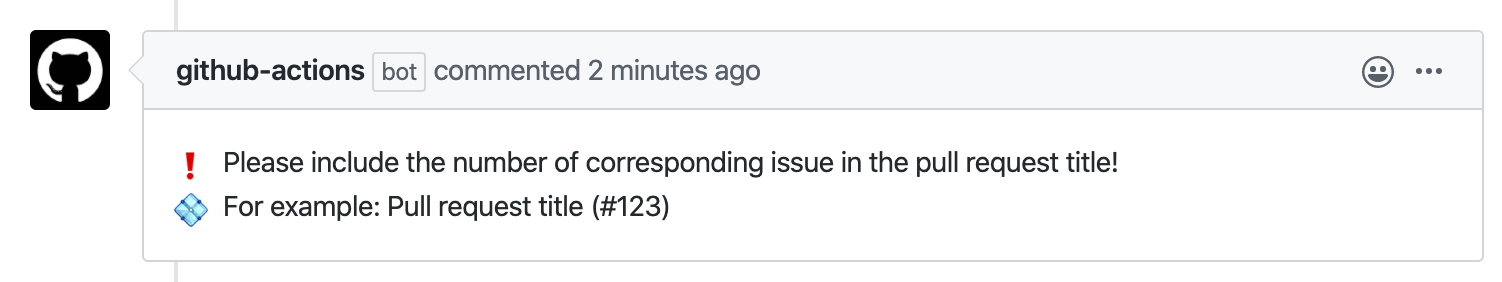
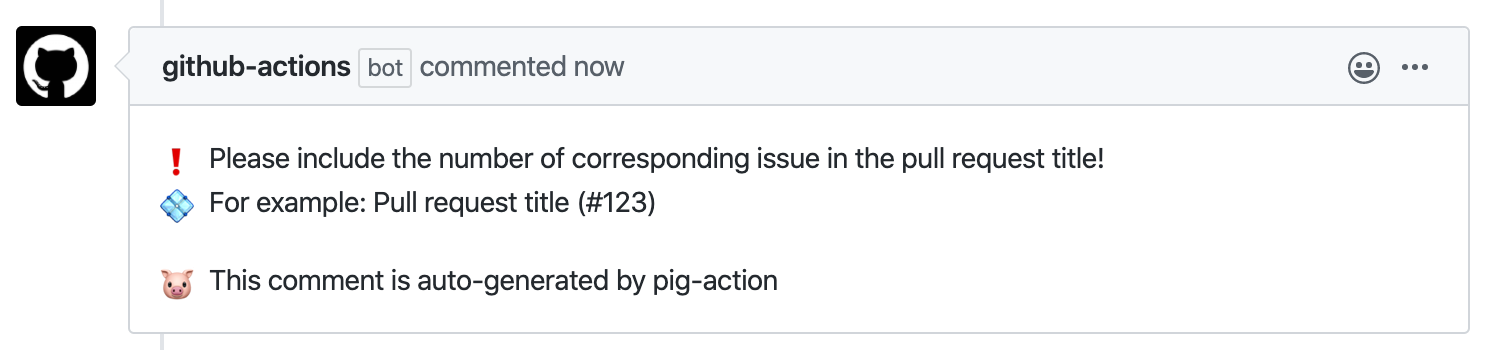
Modify title check comments

diff --git a/dist/index.js b/dist/index.js
@@ -565,7 +565,7 @@ async function run() {
             issue_number: context.issue.number,
             owner: context.repo.owner,
             repo: context.repo.repo,
-            body: "❗ Please include the number of corresponding issue in the pull request title!\n 💠 For example: Pull request title (#123)\n"
+            body: "❗ Please include the number of corresponding issue in the pull request title!\n 💠 For example: Pull request title (#123)\n\n\n 🐷 This comment is auto-generated by pig-action\n"
           })
           return;
         }

diff --git a/index.js b/index.js
@@ -67,7 +67,7 @@ async function run() {
             issue_number: context.issue.number,
             owner: context.repo.owner,
             repo: context.repo.repo,
-            body: "❗ Please include the number of corresponding issue in the pull request title!\n 💠 For example: Pull request title (#123)\n"
+            body: "❗ Please include the number of corresponding issue in the pull request title!\n 💠 For example: Pull request title (#123)\n\n\n 🐷 This comment is auto-generated by pig-action\n"
           })
           return;
         }
